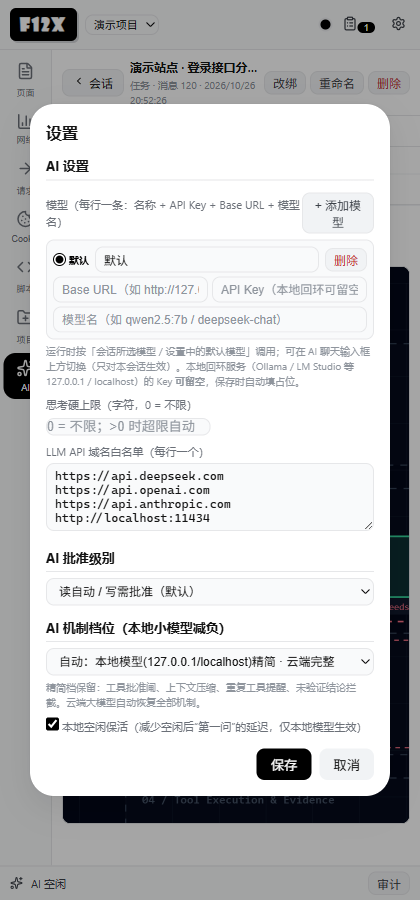
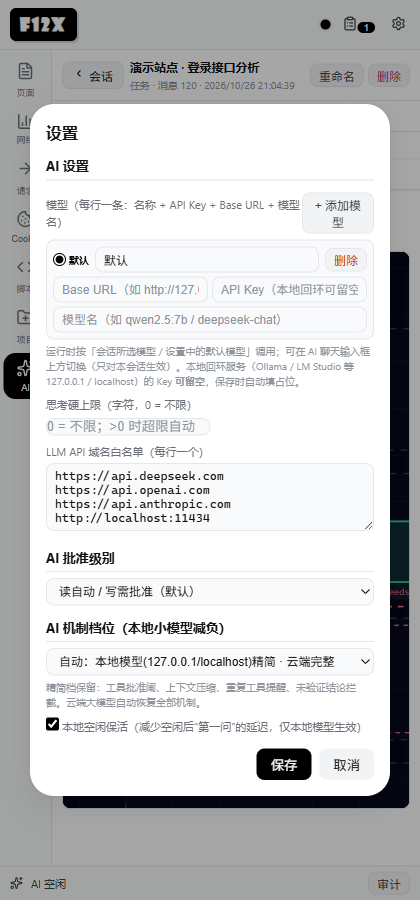
feat: AI 页只谈会话；项目内送 AI 只列本项目会话
- AI 页：会话列表改为平铺（不再按项目分组）、去掉「项目」与「绑定项目」按钮、新建会话为独立会话；切到 AI 视图时隐藏顶栏项目选择器
- 项目页：送 AI / 模板运行的选择层只列本项目会话；没有会话时只有「新建会话（绑定本项目）」；选择层里不提供创建项目
- 项目黑板「送入 AI」同样只列本项目会话
- 文档与截图同步（会话列表平铺、无项目概念）
验证：dev/run.mjs 68/68；真实 UI：模板运行选择层只剩「新建 + 本项目 1 条」、AI 视图无项目按钮且选择器隐藏、页面 Inspect 选择层列全部会话且新建为独立会话，0 pageerror。

diff --git a/sidepanel/panel.js b/sidepanel/panel.js
@@ -214,6 +214,8 @@ function onStreamMessage(msg) {
 function switchView(view) {
   app.currentView = view;
   document.querySelectorAll(".nav-item").forEach(b => b.classList.toggle("active", b.dataset.view === view));
+  const ps = $("project-selector");
+  if (ps) ps.classList.toggle("hidden", view === "ai"); // AI 页不出现项目概念
   const doSwitch = () => {
     document.querySelectorAll(".view").forEach(v => {
       const active = v.id === "view-" + view;
@@ -1749,9 +1751,7 @@ function initAIModule() {
   document.querySelectorAll("#ai-detail .ai-detail-tabs .tab").forEach(t => t.addEventListener("click", () => setAIDetailTab(t.dataset.aiTab)));
   $("ai-back").addEventListener("click", closeAIDetail);
   $("ai-new-conv").addEventListener("click", newConversationFlow);
-  $("ai-new-project").addEventListener("click", () => switchView("project")); // 项目统一在「项目」页创建/管理
-  $("ai-set-project").addEventListener("click", setConversationProject);
-  $("ai-rename-btn").addEventListener("click", () => aiDetailConv && renameConversationFlow(aiDetailConv));
+      $("ai-rename-btn").addEventListener("click", () => aiDetailConv && renameConversationFlow(aiDetailConv));
   $("ai-del-btn").addEventListener("click", () => aiDetailConv && deleteConversationFlow(aiDetailConv));
   // 聊天：发送 / 停止 / 快捷键改为 init() 开头的 document 级委托绑定（见 bindChatDelegates）。
   // 原因：委托不依赖本模块前序 init* 全部成功，即使任何初始化抛错，发送入口也一定可用。
@@ -2828,14 +2828,15 @@ async function aiSendFromPage(text, titleHint = "页面分析", autoSend = true,
 
 async function pickConversationForAI({ text, titleHint = "页面分析", autoSend = true, projectId = "" }) {
   const r = await api("ai:conversations");
-  const list = r.ok ? (r.conversations || []) : [];
-  const pid = projectId || (app.currentProject && app.currentProject.id) || "";
-  const pname = (app.projects.find((x) => x.id === pid) || {}).name || (app.currentProject && app.currentProject.name) || "未绑定项目";
-  const opts = list.map((c) => `<option value="${esc(c.convId)}">${esc(c.title || "未命名")} · ${c.projectId ? "项目" : "独立"} · ${c.msgCount || 0} 条</option>`).join("");
+  const all = r.ok ? (r.conversations || []) : [];
+  const list = projectId ? all.filter((c) => (c.projectId || null) === projectId) : all;
+  const pid = projectId || "";
+  const pname = pid ? ((app.projects.find((x) => x.id === pid) || {}).name || "所选项目") : "";
+  const opts = list.map((c) => `<option value="${esc(c.convId)}">${esc(c.title || "未命名")} · ${c.msgCount || 0} 条</option>`).join("");
   openModal(`<h3>送到哪个会话？</h3>
-    <div class="ai-pick-hint">选已有会话，或新建（新会话会绑定项目「${esc(pname)}」）</div>
+    <div class="ai-pick-hint">${pid ? "该项目下" + list.length + " 个会话；也可新建（会绑定该项目）" : "选已有会话，或新建一条独立会话"}</div>
     <select id="ap-conv">
-      <option value="__new__">＋ 新建会话（绑定：${esc(pname)}）</option>
+      <option value="__new__">${pid ? "＋ 新建会话（绑定：" + esc(pname) + "）" : "＋ 新建会话（独立会话）"}</option>
       ${opts}
     </select>
     <input id="ap-title" class="text-input hidden" placeholder="新会话标题（可选）" value="${esc(titleHint)}" />
@@ -3493,27 +3494,13 @@ function renderAudit() {
 }
 
 // AI 会话列表（AI 数据区：任务/聊天记录 + 审计回看，独立于站点工作区）
-// ===== AI 项目（会话可绑定项目 → 黑板跨会话共享） =====
-let aiProjects = []; // 项目列表缓存（id→name 展示用）
-async function loadAIProjects() {
-  const r = await api("project:list");
-  aiProjects = r.ok ? (r.projects || []) : [];
-  return aiProjects;
-}
-const projName = (id) => (aiProjects.find(p => p.id === id) || {}).name || "";
-
 async function renderAISessions() {
   const pane = $("ai-convs");
   pane.innerHTML = '<div class="placeholder">加载会话…</div>';
   const r = await api("ai:conversations");
-  await loadAIProjects();
   if (!r.ok) { pane.innerHTML = `<div class="placeholder">加载失败：${esc(r.error)}</div>`; return; }
-  const convs = r.conversations || [];
-  if (!convs.length) { pane.innerHTML = '<div class="placeholder">暂无会话（AI 任务/聊天结束后自动记录在此；项目在「项目」页创建）</div>'; return; }
-  // 按项目分组：项目 → 其下绑定的会话；未绑定的归入"独立会话"组
-  const groupBy = (id) => convs.filter(c => (c.projectId || null) === id);
-  const bound = (aiProjects.length ? aiProjects : []).map(p => ({ project: p, convs: groupBy(p.id) })).filter(g => g.convs.length);
-  const orphans = convs.filter(c => !c.projectId);
+  const convs = (r.conversations || []).slice().sort((a, b) => (b.updatedAt || 0) - (a.updatedAt || 0));
+  if (!convs.length) { pane.innerHTML = '<div class="placeholder">暂无会话（AI 任务/聊天结束后自动记录在此）</div>'; return; }
   const itemHtml = (c) => `
     <div class="conv-item" data-id="${esc(c.convId)}">
       <div class="ci-head">
@@ -3527,21 +3514,7 @@ async function renderAISessions() {
       </div>
       <div class="ci-meta">消息 ${c.msgCount} · 审计 ${c.auditCount ?? (c.audit || []).length}</div>
     </div>`;
-  let html = "";
-  for (const g of bound) {
-    html += `<div class="ai-proj-group" data-pid="${esc(g.project.id)}">
-      <div class="ai-proj-group-head">
-        <span class="api-name">📁 ${esc(g.project.name)}</span>
-        <span class="api-meta">${g.convs.length} 会话 · ${g.project.factsCount} 事实</span>
-      </div>${g.convs.map(itemHtml).join("")}</div>`;
-  }
-  if (orphans.length) {
-    html += `<div class="ai-proj-group">
-      <div class="ai-proj-group-head"><span class="api-name">🧩 独立会话</span><span class="api-meta">${orphans.length} 个 · 不共享黑板</span></div>
-      ${orphans.map(itemHtml).join("")}</div>`;
-  }
-  if (!html) html = '<div class="placeholder">暂无会话（AI 任务/聊天结束后自动记录在此）</div>';
-  pane.innerHTML = html;
+  pane.innerHTML = convs.map(itemHtml).join("");
   pane.querySelectorAll(".conv-item").forEach(el => el.addEventListener("click", (ev) => {
     const c = convs.find(x => x.convId === el.dataset.id);
     if (!c) return;
@@ -3584,57 +3557,21 @@ async function deleteConversationFlow(c) {
   } else toast("删除失败：" + (r.error || ""));
 }
 
-// 新建会话：可选绑定项目（绑定后黑板走项目黑板，跨会话共享）
+// 新建会话（AI 页只创建独立会话；项目内会话由项目页新建）
 async function newConversationFlow() {
-  const projects = await loadAIProjects();
   openModal(`<h3>新建会话</h3>
     <label>会话标题（可选，留空自动命名）</label><input id="nc-title" placeholder="例如：目标站点信息收集" />
-    <label>绑定项目</label>
-    <select id="nc-project">
-      <option value="">不绑定（独立会话 · AI 全局黑板）</option>
-      ${projects.map(p => `<option value="${esc(p.id)}">📁 ${esc(p.name)}（${p.factsCount} 事实）</option>`).join("")}
-    </select>
-    <div style="font-size:11px;color:var(--text-4)">绑定项目后，该会话任务中沉淀/读取的事实与绑定同一项目的会话共享。</div>
     <div class="modal-actions"><button>取消</button><button id="nc-ok" class="primary">创建</button></div>`);
   const box = document.querySelector(".modal-box");
   box.querySelector(".modal-actions button").addEventListener("click", closeModal);
   box.querySelector("#nc-ok").addEventListener("click", async () => {
-    const r = await api("ai:conversation_create", {
-      title: $("nc-title").value.trim() || undefined,
-      projectId: $("nc-project").value || null
-    });
+    const r = await api("ai:conversation_create", { title: $("nc-title").value.trim() || undefined });
     closeModal();
     if (r.ok) {
       toast("已创建会话");
       if (r.conv) openAIDetail({ type: "chat", msgCount: 0, updatedAt: Date.now(), ...r.conv });
       else await renderAISessions();
-    }
-    else toast("创建失败：" + (r.error || ""));
-  });
-}
-
-// 会话绑定/解绑项目（详情头按钮）
-async function setConversationProject() {
-  if (!aiDetailConv) return;
-  const projects = await loadAIProjects();
-  openModal(`<h3>会话绑定项目</h3>
-    <div style="font-size:11px;color:var(--text-3);margin-bottom:8px">绑定后该会话的黑板读写指向项目黑板，与绑定同一项目的其他会话跨会话共享事实；不绑定 = 独立会话（AI 全局黑板）。</div>
-    <select id="sp-project">
-      <option value="">不绑定（独立会话 · AI 全局黑板）</option>
-      ${projects.map(p => `<option value="${esc(p.id)}" ${aiDetailConv.projectId === p.id ? "selected" : ""}>📁 ${esc(p.name)}（${p.factsCount} 事实）</option>`).join("")}
-    </select>
-    <div class="modal-actions"><button>取消</button><button id="sp-ok" class="primary">保存</button></div>`);
-  const box = document.querySelector(".modal-box");
-  box.querySelector(".modal-actions button").addEventListener("click", closeModal);
-  box.querySelector("#sp-ok").addEventListener("click", async () => {
-    const r = await api("ai:conversation_set_project", { convId: aiDetailConv.convId, projectId: $("sp-project").value || null });
-    closeModal();
-    if (r.ok) {
-      aiDetailConv.projectId = r.projectId;
-      $("ai-set-project").textContent = r.projectId ? "改绑" : "绑定项目";
-      toast(r.projectId ? "已绑定项目，黑板切换为项目黑板" : "已设为独立会话，黑板切换为 AI 全局黑板");
-      renderConvFindings();
-    } else toast("操作失败：" + (r.error || ""));
+    } else toast("创建失败：" + (r.error || ""));
   });
 }
 
@@ -3661,7 +3598,6 @@ async function openAIDetail(c) {
   $("ai-detail").classList.remove("hidden");
   $("ai-detail-title").textContent = c.title || "未命名会话";
   $("ai-detail-meta").textContent = `${c.type === "task" ? "任务" : "聊天"} · 消息 ${c.msgCount} · ${new Date(c.updatedAt || 0).toLocaleString()}`;
-  $("ai-set-project").textContent = c.projectId ? "改绑" : "绑定项目";
   // 默认落在「聊天」页签（与会话记录互斥）；记录子页签复位到黑板
   setAIDetailTab("chat");
   chatSetBusy(false); // 复位输入区并刷新模式提示（任务模式/对话模式）
@@ -3708,7 +3644,7 @@ function closeAIDetail() {
 async function renderConvFindings() {
   const pane = $("ai-d-findings");
   if (!aiDetailConv) return;
-  const scope = aiDetailConv.projectId ? `📁 项目黑板（${esc(projName(aiDetailConv.projectId) || "项目")} · 跨会话共享全部事实）` : "🧠 AI 全局黑板";
+  const scope = "🧠 会话黑板（本会话可见的事实）";
   const pid = aiDetailConv.projectId || null;
   // 读侧精选（黑板优化 A）：拉全类别（endpoint/credential/chain 也可见），按类别分组展示
   const r = await api("ai:findings", { convId: pid ? null : aiDetailConv.convId, projectId: pid, category: "all" });

diff --git a/sidepanel/index.html b/sidepanel/index.html
@@ -339,8 +339,7 @@
           <!-- 列表态工具条 -->
           <div id="ai-list-bar" class="toolbar wrap">
             <button id="ai-new-conv" class="ctrl-btn" title="新建会话（可选绑定项目）"><span data-icon="plus" data-size="12"></span> 新会话</button>
-            <button id="ai-new-project" class="ctrl-btn" title="打开「项目」页（项目只在这里创建/管理）">项目</button>
-            <span class="spacer"></span>
+                <span class="spacer"></span>
           </div>
           <!-- 会话列表态 -->
           <div id="ai-list">
@@ -355,8 +354,7 @@
                 <span id="ai-detail-meta" class="ai-detail-meta"></span>
               </span>
               <span class="ai-detail-actions">
-                <button id="ai-set-project" class="mini-btn" title="绑定/更换该会话的项目（黑板跨会话共享）">绑定项目</button>
-                <button id="ai-rename-btn" class="mini-btn" title="重命名会话">重命名</button>
+                        <button id="ai-rename-btn" class="mini-btn" title="重命名会话">重命名</button>
                 <button id="ai-del-btn" class="mini-btn danger" title="删除会话（含其沉淀的黑板发现）">删除</button>
               </span>
             </div>
